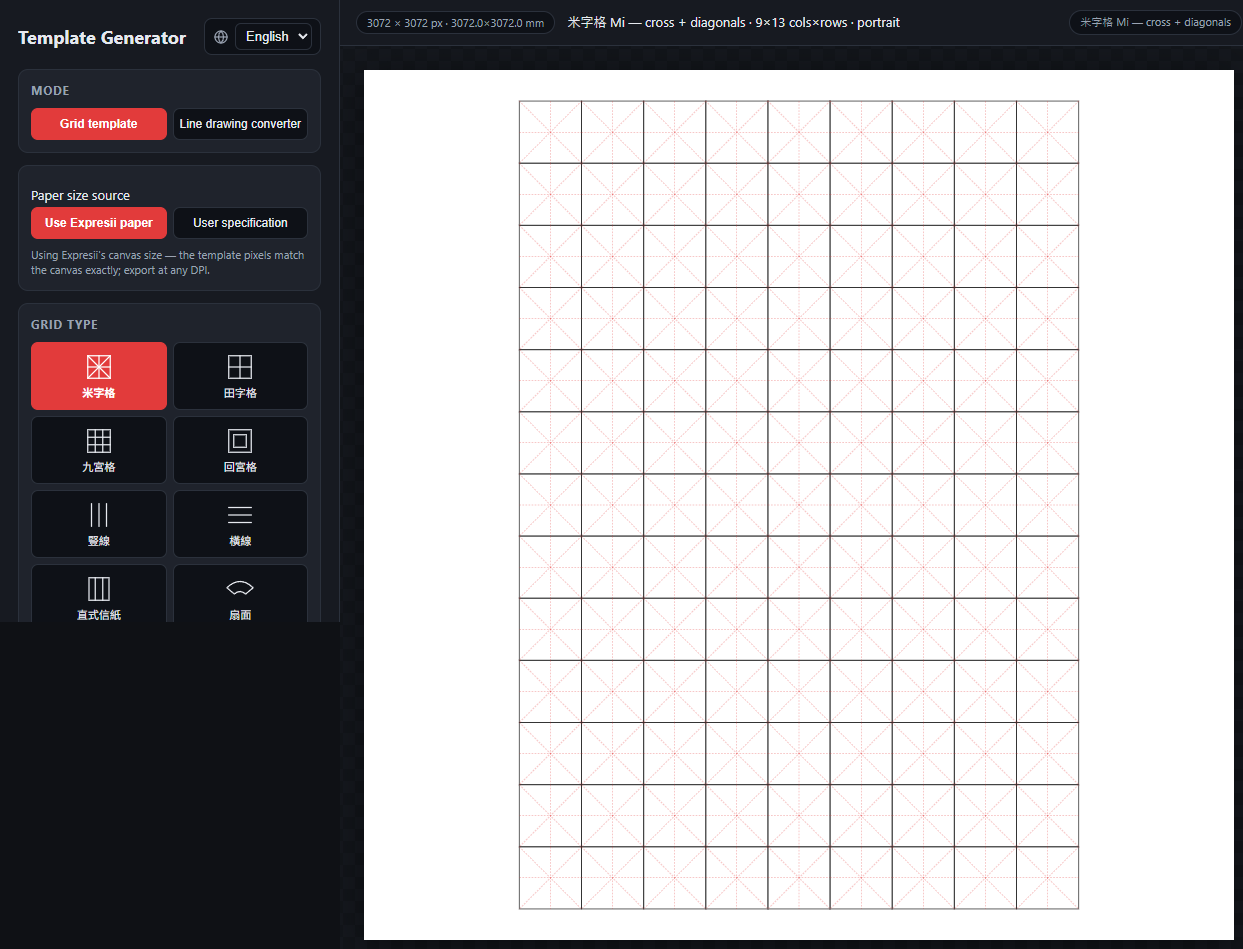
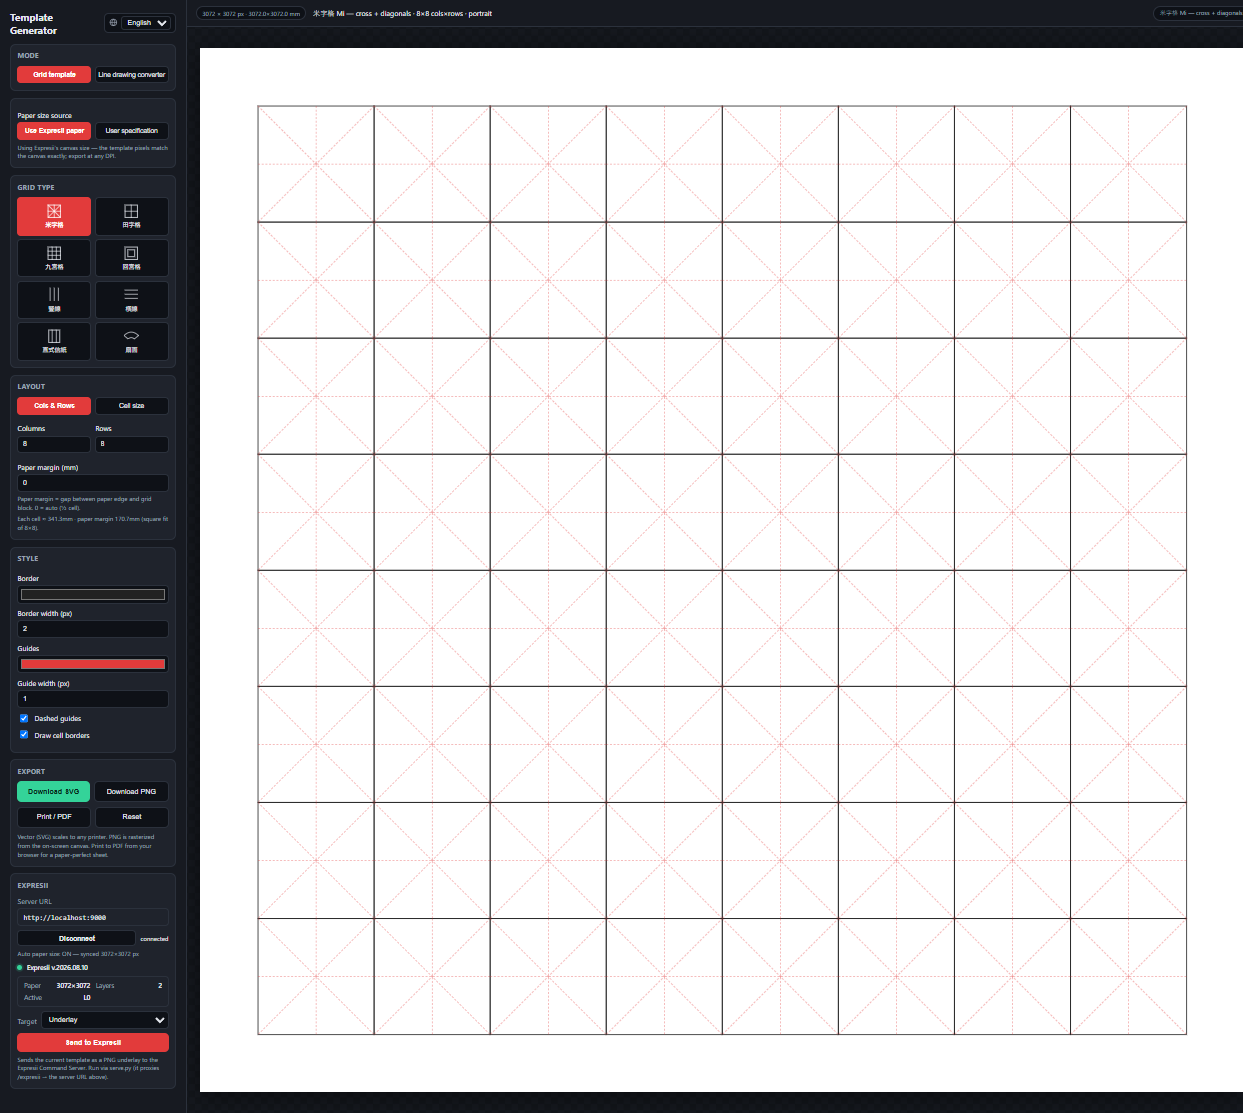
Add ?grid=N screenshot deep-link (full-page capture) + update screenshot.png (米字格 8x8, full sidebar)

Changed region(s): [[0.0, 0.0, 1.0, 1.0], [0.856, 0.5501, 0.8866, 0.5806]]

diff --git a/index.html b/index.html
@@ -16,6 +16,9 @@
        background:var(--bg);color:var(--text);display:flex;min-height:100vh}
   .sidebar{width:340px;min-width:340px;background:var(--panel);border-right:1px solid var(--line);
            padding:18px 18px 32px;overflow-y:auto;height:100vh}
+  /* screenshot mode (?grid=N): let the whole sidebar paint (no internal scroll) */
+  body.shot .sidebar{height:auto;overflow:visible;max-height:none}
+  body.shot .canvas-wrap{height:auto}
   .stage{flex:1;display:flex;flex-direction:column;min-width:0}
   header{display:flex;align-items:center;justify-content:space-between;gap:10px;margin-bottom:14px}
   header h1{font-size:18px;margin:0;font-weight:700}
@@ -1251,6 +1254,14 @@
   // init
   lang = localStorage.getItem("tg_lang") || defaultLang();
   $("langSel").value = lang;
+  // allow ?cols=&rows= / ?grid=N / ?shot=0.6 deep-links (e.g. reproducible screenshots)
+  try {
+    const q = new URLSearchParams(location.search);
+    if(q.has("grid")){ const n=Math.min(60,Math.max(1,parseInt(q.get("grid"))||1)); state.cols=n; state.rows=n; const ci=$("cols"),ri=$("rows"); if(ci)ci.value=n; if(ri)ri.value=n; document.documentElement.style.zoom="0.55"; document.body.classList.add("shot"); }
+    if(q.has("cols")){ const c=Math.min(60,Math.max(1,parseInt(q.get("cols"))||1)); state.cols=c; const ci=$("cols"); if(ci) ci.value=c; }
+    if(q.has("rows")){ const r=Math.min(80,Math.max(1,parseInt(q.get("rows"))||1)); state.rows=r; const ri=$("rows"); if(ri) ri.value=r; }
+    if(q.has("shot")){ const z=Math.min(1,Math.max(0.3,parseFloat(q.get("shot"))||1)); document.documentElement.style.zoom=String(z); }
+  } catch(e){}
   applyVisibility();
   applyModeVisibility();
   setLang(lang);   // applies translations + renders (render() is called inside applyLang)
